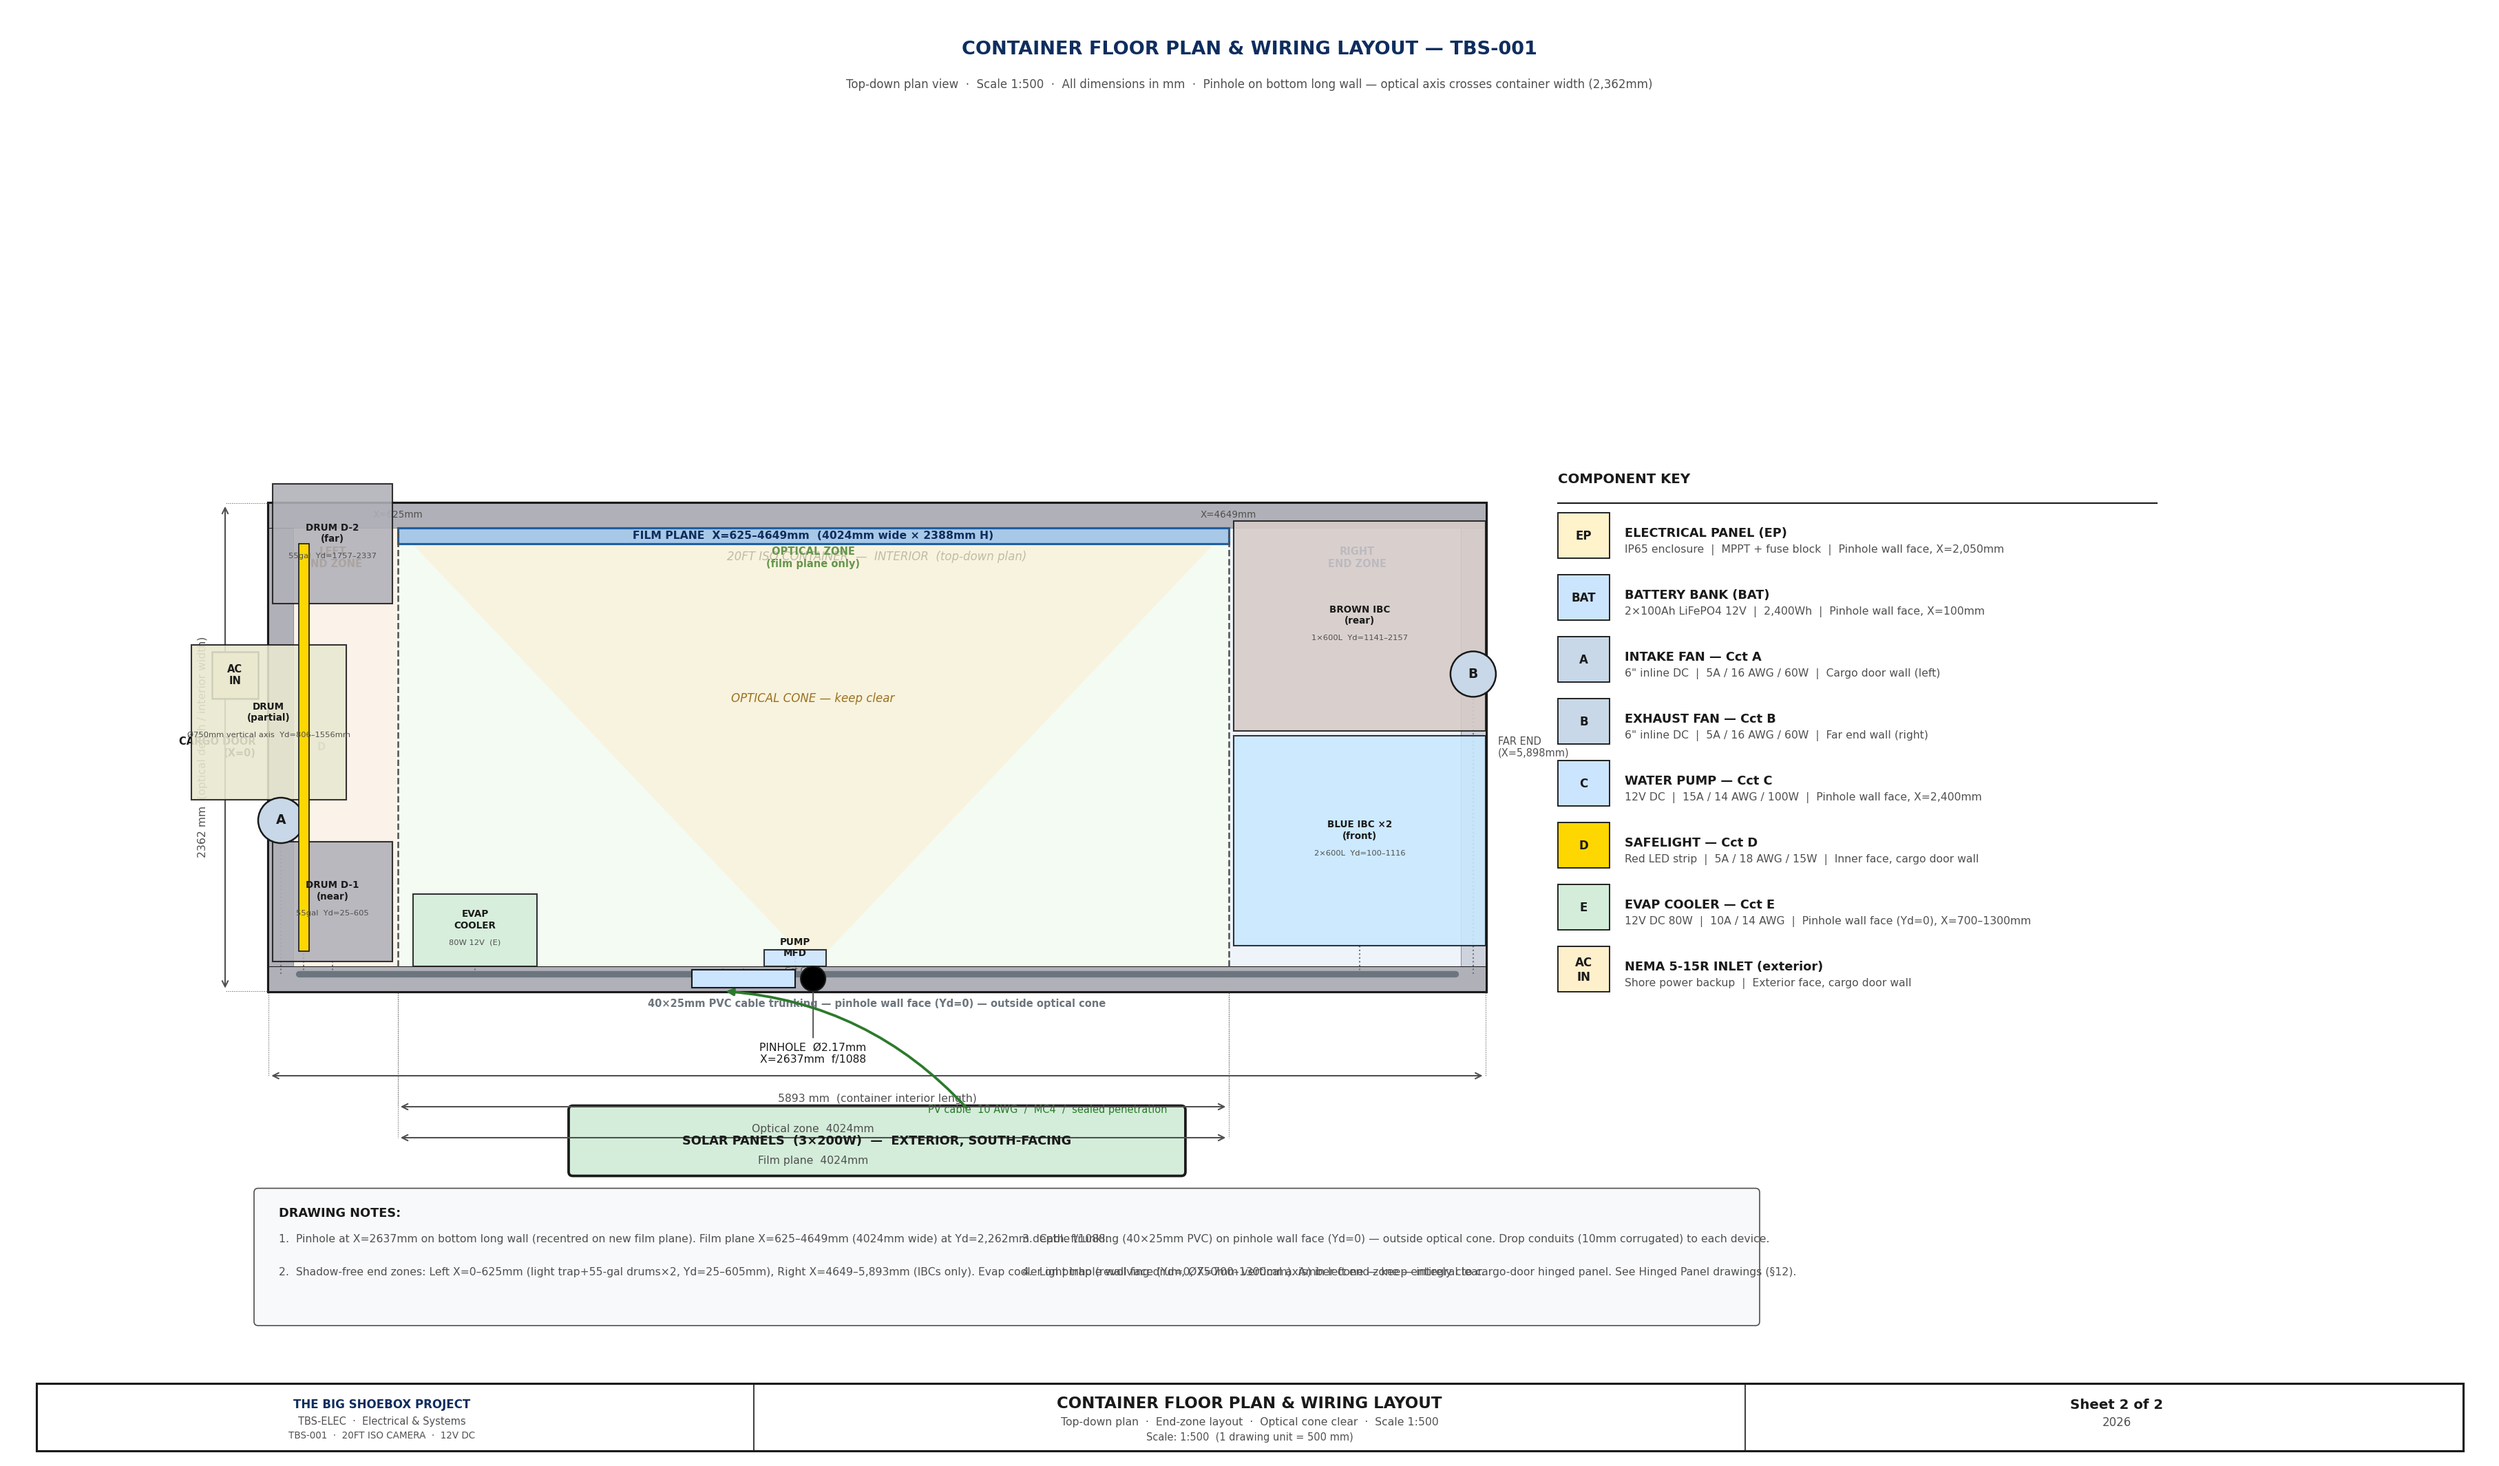
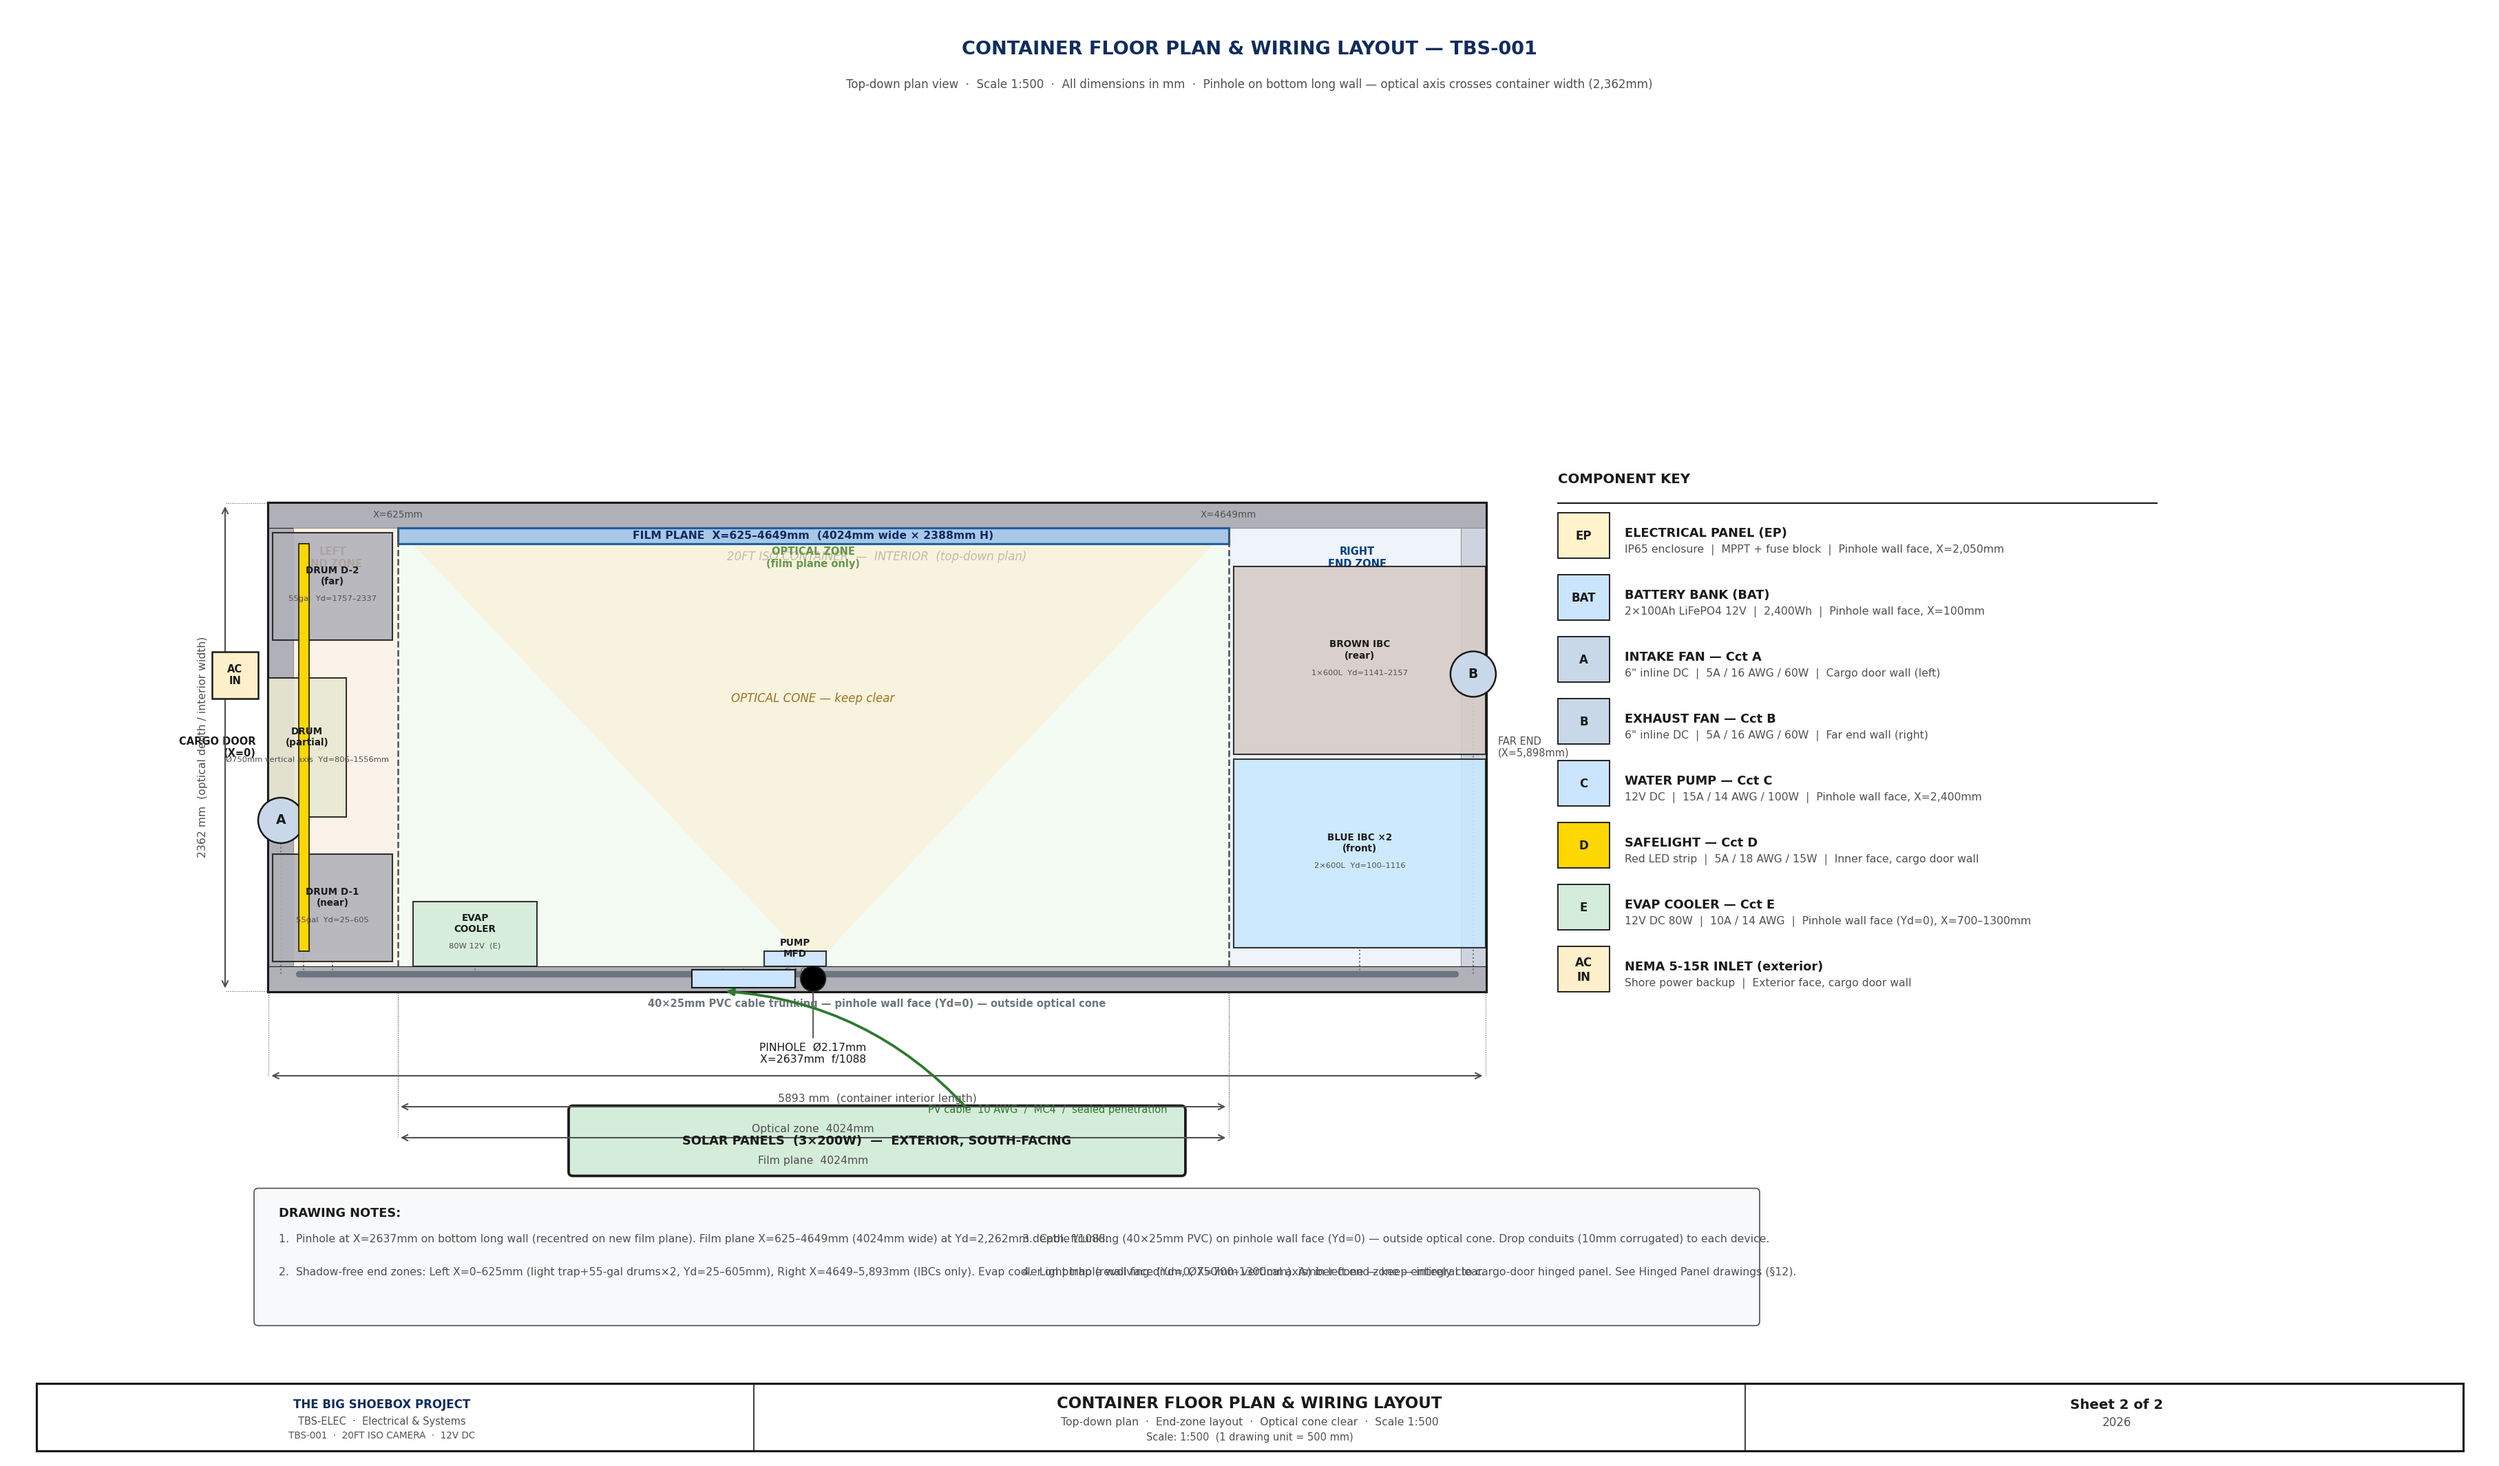
fix electrical-sheet2 Yd coordinate scale overflow
equip() was using the same S=1/500 scale for both X and Yd, placing
items with yd > 2,122mm outside the container walls. The interior Yd
span is (cwid−2·wt) drawing units over C_WID=2,362mm, so the correct
Yd scale is S_yd=(cwid−2·wt)/C_WID≈0.001797.

Changes:
- Define S_yd after wt is computed; apply to ey and ed in equip()
- Clip light trap drum to interior half only (x=0, w=DRUM_R) — was
  drawn from x=−375 placing it 0.75 units outside the cargo door wall
- Fix drop-conduit Yd coords to use S_yd
- Fix stale comments: PH_X 2874→2637mm, ZONE_L 1100→625mm

Fixes: far drum D-2, Brown IBC, and all large-Yd items no longer
break the far wall.

diff --git a/generate_electrical_diagram.py b/generate_electrical_diagram.py
@@ -437,15 +437,16 @@ def draw_sheet2():
     C_WID   = TBS_C_WID    # 2362 mm container interior width = optical depth
     WT_MM   = 120           # mm schematic wall thickness
 
-    PH_X_MM = TBS_PH_X     # 2874 mm — recentred on new film plane (was 2560, was 2946)
+    PH_X_MM = TBS_PH_X     # 2637 mm — centred on active film plane (was 2560, was 2946)
 
     # Zone boundaries
-    ZONE_L  = ZONE_L_END   # 1100 mm — left end zone right boundary
+    ZONE_L  = ZONE_L_END   # 625 mm — left end zone right boundary
     ZONE_R  = ZONE_R_START  # 4,649 mm — right end zone left boundary
 
     clen   = C_LEN * S     # drawing units
     cwid   = C_WID * S     # drawing units
     wt     = WT_MM * S     # drawing units
+    S_yd   = (cwid - 2*wt) / C_WID  # Yd scale: maps yd=0→OY+wt, yd=C_WID→OY+cwid-wt
     ph_x   = OX + PH_X_MM * S  # pinhole x in drawing coords
     zone_l_x = OX + ZONE_L * S   # left zone boundary x
     zone_r_x = OX + ZONE_R * S   # right zone boundary x
@@ -552,10 +553,10 @@ def draw_sheet2():
     #          The schematic 120mm wall fill is a visual overlay only.
     # yd_mm = depth from pinhole wall (0 = pinhole wall = BOTTOM in plan)
     def equip(x_mm, yd_mm, w_mm, d_mm, label, col, sublabel=""):
-        ex = OX + x_mm  * S          # TBS X maps directly to drawing X
-        ey = OY + wt + yd_mm * S     # depth from interior face of pinhole wall
+        ex = OX + x_mm  * S           # TBS X maps directly to drawing X
+        ey = OY + wt + yd_mm * S_yd   # depth from interior face of pinhole wall
         ew = w_mm * S
-        ed = d_mm * S
+        ed = d_mm * S_yd
         ax.add_patch(mpatches.Rectangle((ex, ey), ew, ed,
                      fc=col, ec=C_OUT, lw=1.0, zorder=5, alpha=0.88))
         cy_e = ey + ed / 2
@@ -567,8 +568,8 @@ def draw_sheet2():
                     ha="center", va="center", fontsize=5.5, color=C_DIM, zorder=6)
 
     # LEFT END ZONE (X=0–625mm) — light trap drum + waste drums
-    # Drum is centred at X=0 (outside edge), Yd-centred at CW/2=1181mm, appears as partial circle
-    equip(DRUM_CX - DRUM_R, C_WID//2 - DRUM_R, DRUM_D, DRUM_D, "DRUM\n(partial)", "#E8E8D0",
+    # Drum centred at X=0 (spans cargo door wall); only draw interior half X=0–DRUM_R
+    equip(0, C_WID//2 - DRUM_R, DRUM_R, DRUM_D, "DRUM\n(partial)", "#E8E8D0",
           f"Ø{DRUM_D}mm vertical axis  Yd={C_WID//2 - DRUM_R}–{C_WID//2 + DRUM_R}mm")
     # 55-gal drums — one per Yd corner (rev 4: unstacked)
     equip(DRUM_LZ_CX - DRUM_EQ_R, DRUM_LZ_YD_LO, DRUM_EQ_D, DRUM_EQ_D,
@@ -650,10 +651,10 @@ def draw_sheet2():
     for ddx, ddy in [
         (BA_DX + BA_DW/2,    OY + wt),
         (EP_DX + EP_DW/2,    OY + wt),
-        (EVAP_CX,            OY+wt + EVAP_Y*S),           # evap cooler (Yd=0, pinhole wall)
-        (PUMP_CX,            OY+wt + 80*S),                # pump manifold
-        (IBC_CX,             OY+wt + BLUE_IBC_Y*S),       # IBC column centre
-        (DRUM_CX_E,          OY+wt + DRUM_LZ_YD_LO*S),   # drums (left zone)
+        (EVAP_CX,            OY+wt + EVAP_Y*S_yd),           # evap cooler (Yd=0, pinhole wall)
+        (PUMP_CX,            OY+wt + 80*S_yd),               # pump manifold
+        (IBC_CX,             OY+wt + BLUE_IBC_Y*S_yd),      # IBC column centre
+        (DRUM_CX_E,          OY+wt + DRUM_LZ_YD_LO*S_yd),  # drums (left zone)
         (FA_X,               FA_Y - 0.22),
         (FB_X,               FB_Y - 0.22),
         (SL_X + SL_W/2,      SL_Y1),
